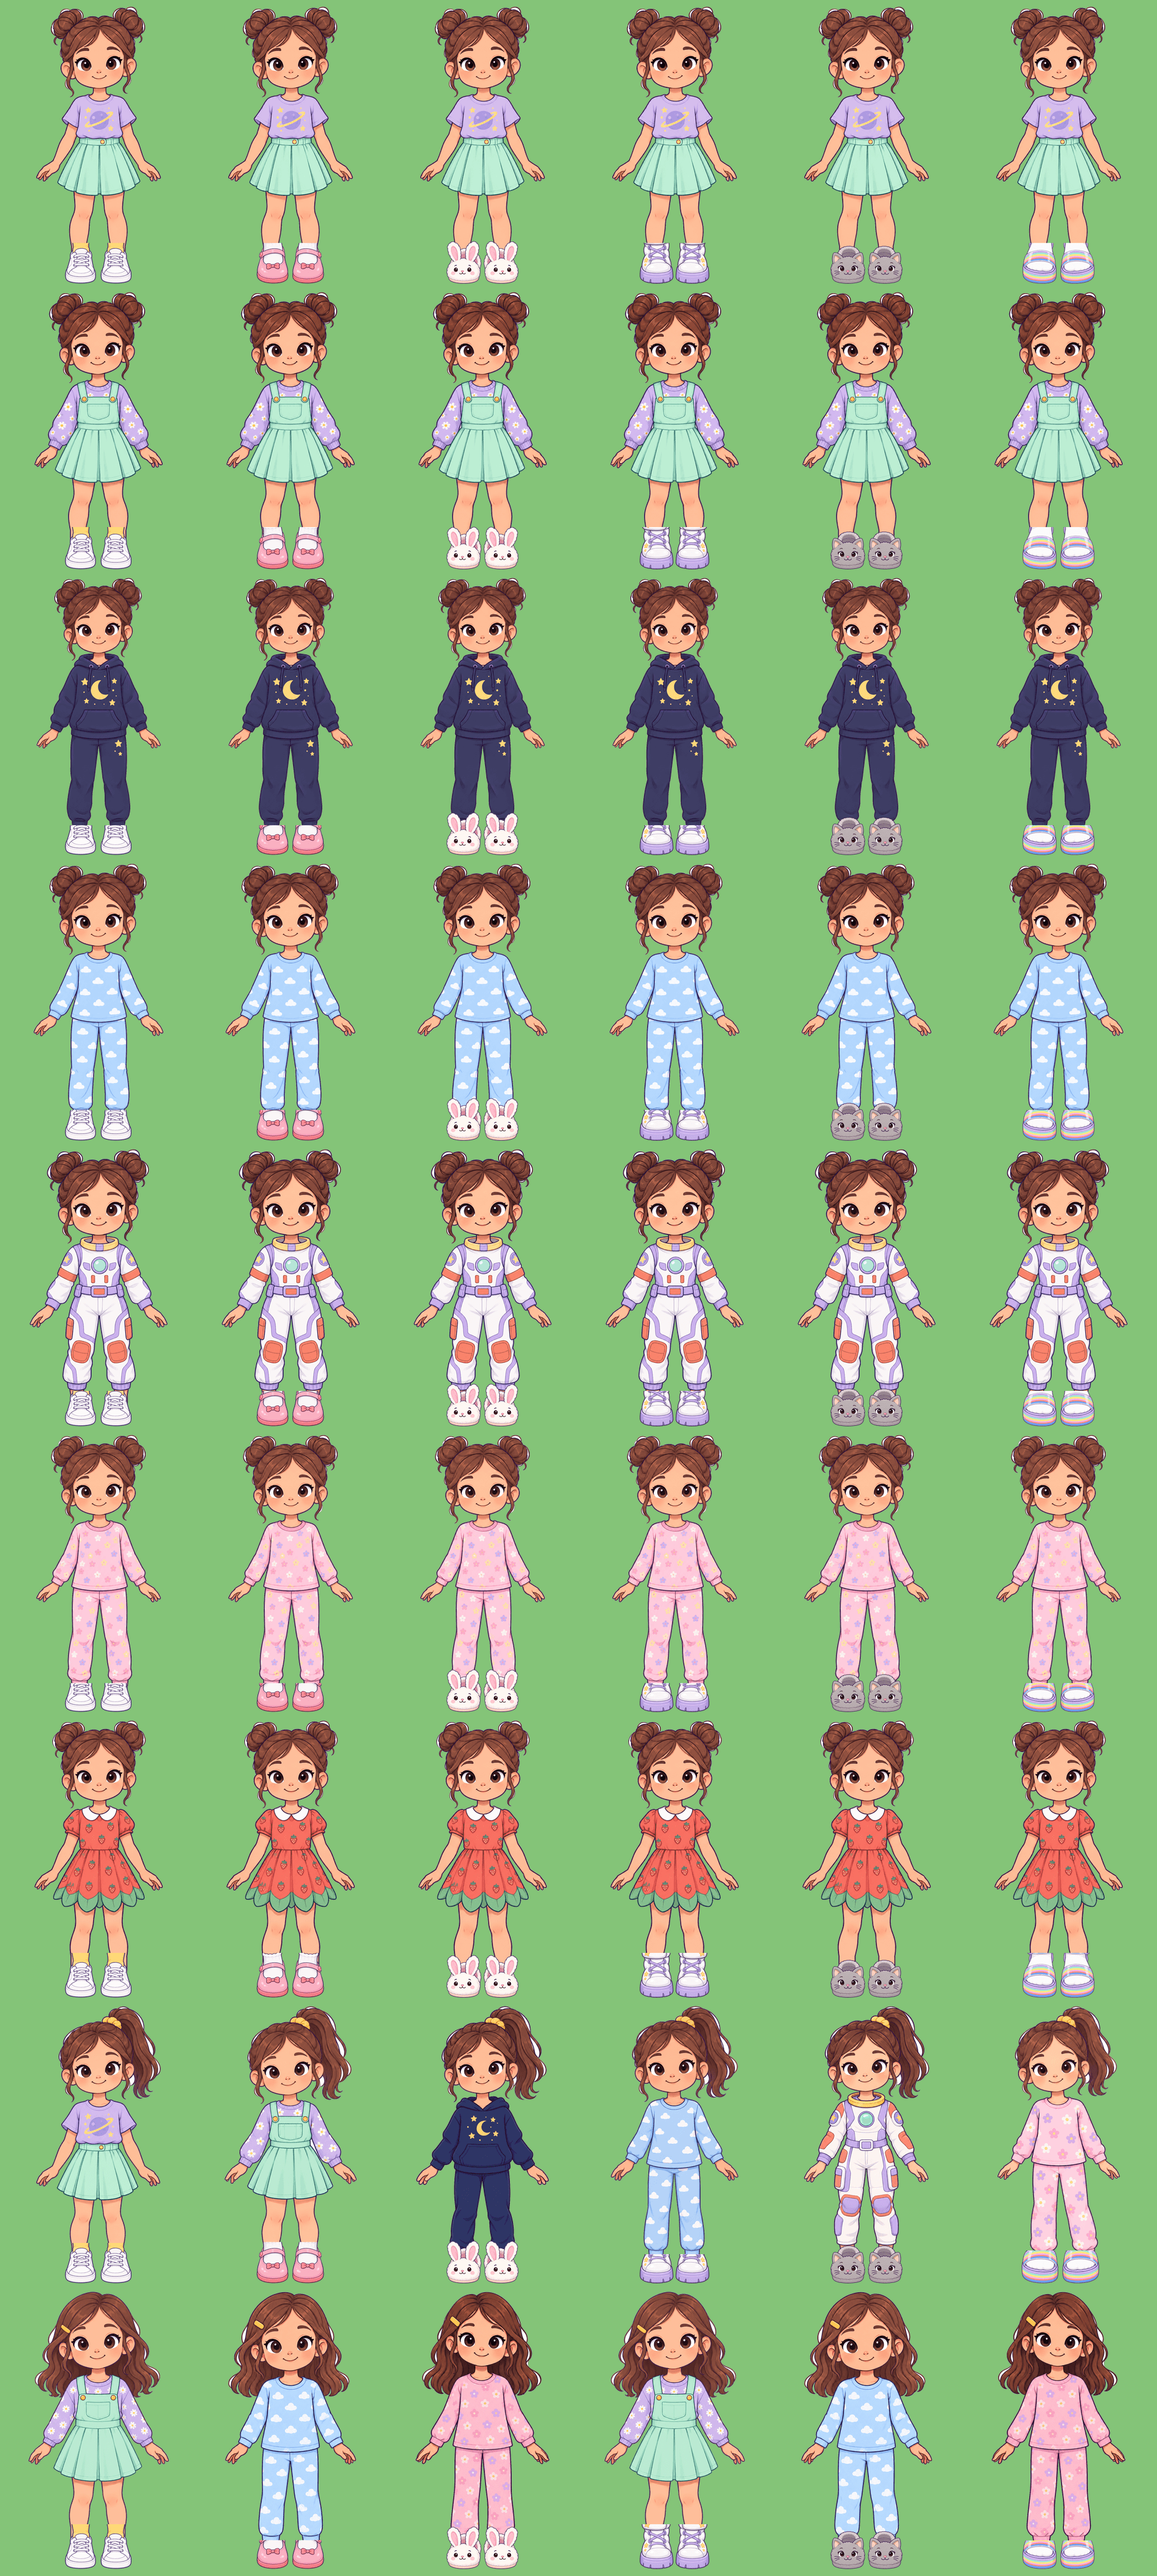
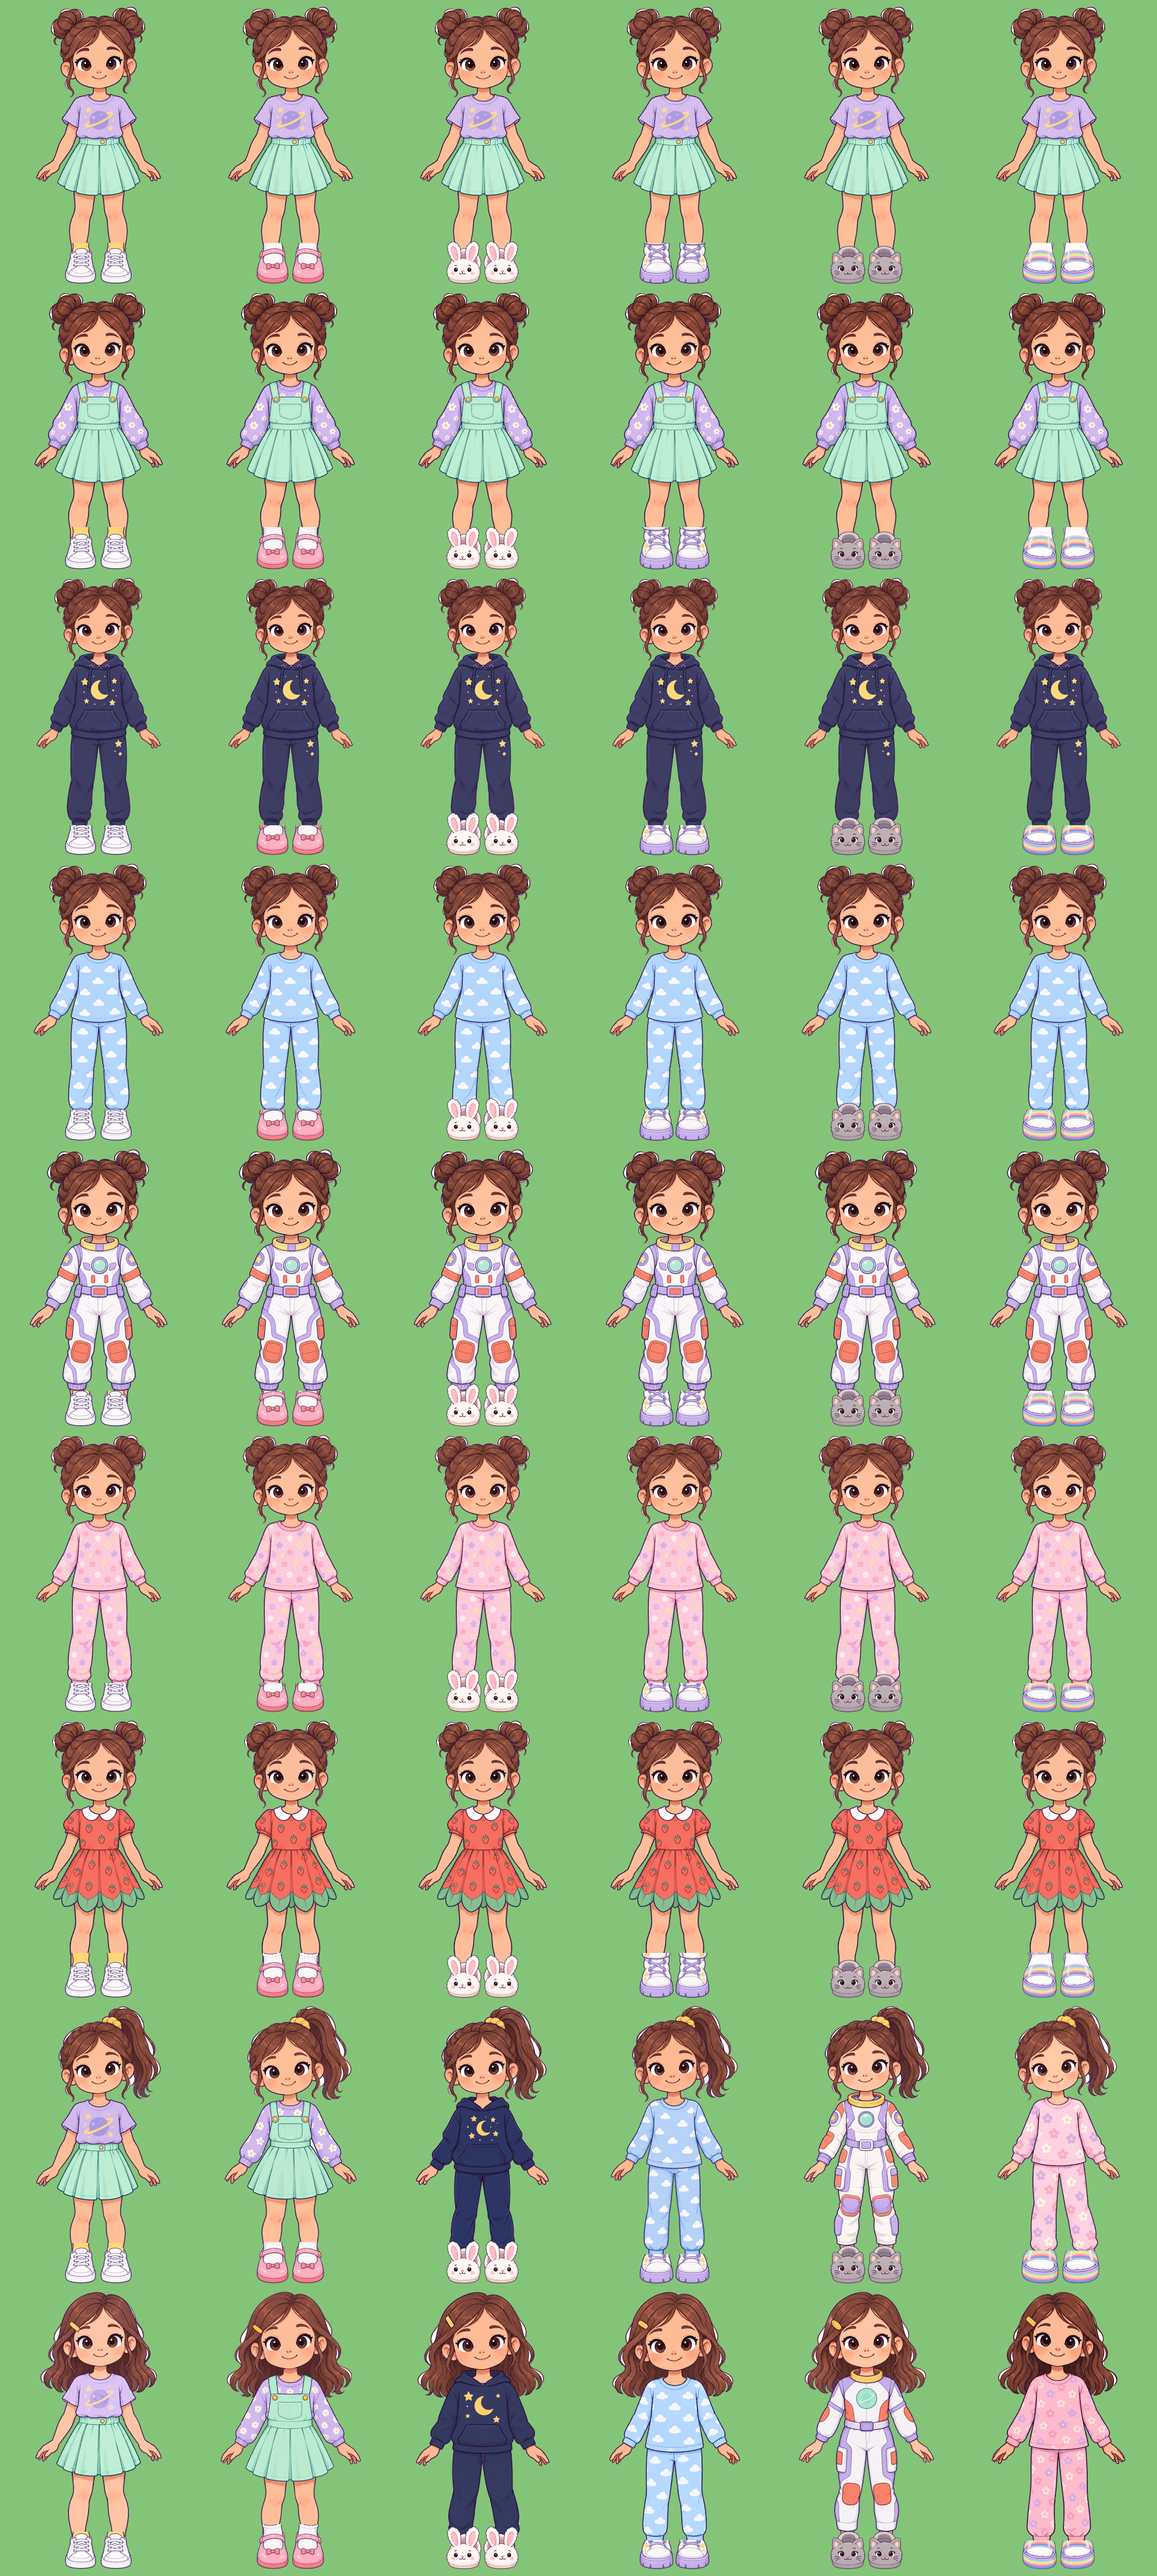
Generate the four remaining loose-hair heroine figures
planetTee, spacesuit, starHoodie and strawberryDress with loose hair were generated after the
Codex five-hour window reset, post-processed with the ankle cut, given the tuned loose anchors,
and the hairLoose wardrobe tile derived from planetTee-loose. All 21 figures now exist.

diff --git a/docs/NEXT_SESSION.md b/docs/NEXT_SESSION.md
@@ -79,19 +79,12 @@ after the third loose-hair figure at 21:03, when the generator paused until 01:3
 costs 3–6 % of the five-hour window, a sol-med overlay 1–3 %. `assets/.gen/run.log` (ignored
 by git, so only on this machine) has every check and asset.
 
-**Still placeholders (4 figures):** `shared/heroine/figure/planetTee-loose`,
-`spacesuit-loose`, `starHoodie-loose`, `strawberryDress-loose`. Until they exist, "Loose with
-clip" shows the two-buns figure for those outfits and its wardrobe tile shows the loose head
-from `planetTee-loose` only once that figure exists (the tile is a placeholder now). To finish:
-`npm run assets:gen` (picks up the four placeholder entries; pauses by itself if the window is
-full), then `npm run assets:post` (normalises them, writes the default anchors and the hair
-tile), then check them with `?screen=S1&debug=heroine` wearing each outfit with loose hair;
-the three existing loose figures use `face` y 200 × 0.9, `head` y 92, `back` y 430, so copy
-those into the new entries' `anchors` if the defaults look off. Post-processing also guesses
-the ankle cut (`feet.cutY`) from the socks; the buns and ponytail figures of the same outfits
-use 775 (planet tee), 770 (sweater), 762 (dress) and 809 (hoodie), so set the new figures'
-cut near those (a bare leg gets the cut ~25 px above the socks so the overlay's own sock
-shows), re-run `npm run assets:post -- --only <figure> --force` and check the matrix sheet.
+**All 21 figures exist** since 13 September 01:39: the four remaining loose-hair figures
+(`planetTee-loose`, `spacesuit-loose`, `starHoodie-loose`, `strawberryDress-loose`) were
+generated after the window reset (53–70 s each, first attempt; five-hour window 34 % and weekly
+51 % afterwards), post-processed, and given the tuned loose anchors (`face` y 200 × 0.9, `head`
+y 92, `back` y 430); their ankle cuts were guessed from the socks (786, 788, 813, 789). Check
+them once in `?screen=S1&debug=heroine` wearing each outfit with loose hair.
 
 **Optional regeneration (not needed for the fix).** The shoe overlays were generated with
 narrower, closer-together legs than the figures, which is why the socks used to peek out; the
@@ -105,8 +98,6 @@ clipped now) if generated as low boots.
 
 ## Known limitations
 
-- Four loose-hair figures are still placeholders (see "Codex usage state" above); the
-  generator resumes them with `npm run assets:gen`.
 - Shoes are clipped at the figure's ankle (`clipAtAnkle`), so the sneakers' yellow crew socks
   show as ankle socks and the space boots as low boots (their cuff strap is above the clip);
   the slippers' ears stand in front of the shin. The extruded leg under the cut is a flat

diff --git a/CHANGELOG.md b/CHANGELOG.md
@@ -49,8 +49,9 @@ native-speaker wording review of Turkish and Dutch, and the deployment itself.
   area empty; slot, heroine, companion, entry and lamp geometry retuned; S0 thumbnails
   re-derived.
 - A hairstyle whose figure is still a placeholder shows the outfit's two-buns figure (the
-  ponytail and loose sets were generated last; four loose figures were left for the next
-  Codex window, see docs/NEXT_SESSION.md). The heroine stands 450 stage px tall (was 420).
+  ponytail and loose sets were generated last; the last four loose figures were generated on
+  13 September after the Codex window reset, so all 21 figures now exist). The heroine stands
+  450 stage px tall (was 420).
 - Dev aids: `?screen=S1&theme=sweet` opens the Sweet room directly; `tools/screenshots.ts`
   writes the review screenshots in `docs/screenshots/` (both rooms, the four dress-up tabs,
   the title cards, S5) with Playwright against the dev server.
